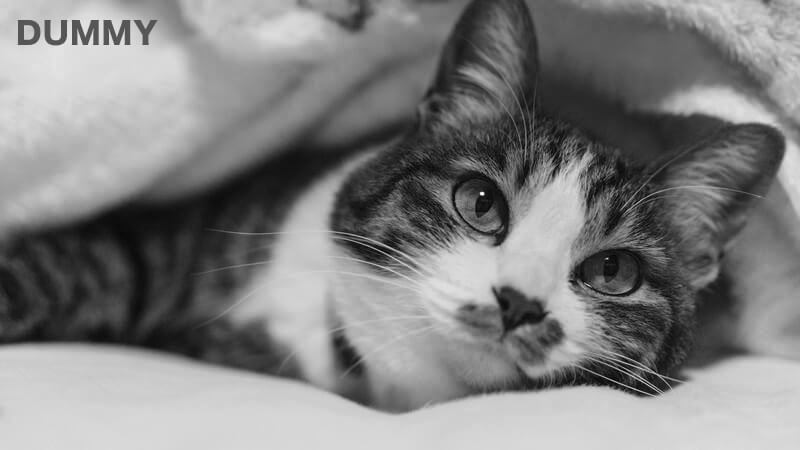
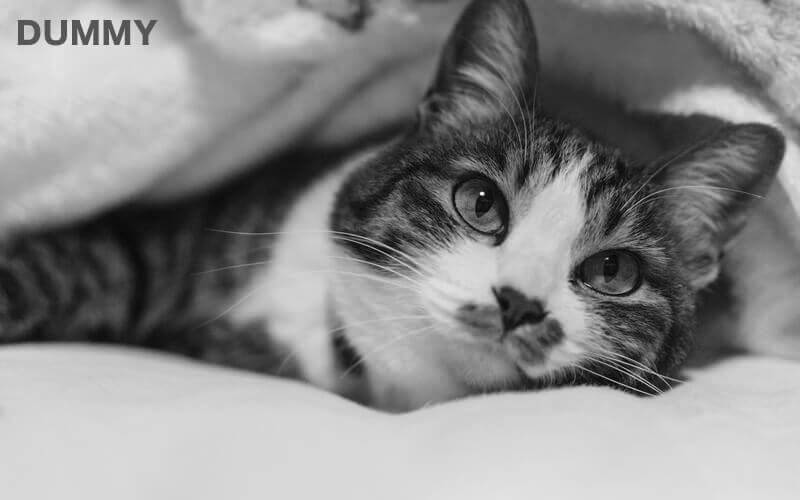
slider end

diff --git a/ui-slider/style.css b/ui-slider/style.css
@@ -1,9 +1,11 @@
 .Carousel {
   margin: 10px auto;
-  max-width: 1340px;
+  max-width: 800px;
 }
 
 .Carousel-container {
+  position: relative;
+  padding: 0 36px;
 }
 
 .Carousel-stage {
@@ -34,4 +36,122 @@
   display: block;
   width: 100%;
   height: auto;
+}
+
+/* コントローラー */
+.Carousel-button {
+  position: absolute;
+  top: 0;
+  width: 36px;
+  border-width: 0;
+  height: 100%;
+  overflow: hidden;
+  background-color: transparent;
+  background-image: none;
+  color: deepskyblue;
+  cursor: pointer;
+}
+
+.Carousel-button:disabled {
+  color: lavender;
+}
+.Carousel-button:not(:disabled):hover {
+  color: deeppink;
+}
+
+.Carousel-button::before {
+  content: "";
+  display: block;
+  width: 100%;
+  height: 100%;
+}
+
+.Carousel-button._prev {
+  left: 0;
+}
+.Carousel-button._prev::after {
+  position: absolute;
+  top: 0;
+  bottom: 0;
+  margin: auto;
+  width: 18px;
+  height: 18px;
+  content: "";
+  right: 0;
+  left: 8px;
+  box-shadow: inset 4px 4px 0 currentColor;
+  transform: rotate(-45deg);
+  transition: 0.3s;
+}
+
+.Carousel-button._next {
+  right: 0;
+}
+.Carousel-button._next::after {
+  position: absolute;
+  top: 0;
+  bottom: 0;
+  margin: auto;
+  width: 18px;
+  height: 18px;
+  content: "";
+  right: 8px;
+  left: 0;
+  box-shadow: inset -4px 4px 0 currentColor;
+  transform: rotate(45deg);
+  transition: 0.3s;
+}
+
+/* 下部エリア */
+.Carousel-footer {
+  margin-top: 10px;
+  padding: 0 36px;
+}
+
+/* 再生/一時停止ボタン */
+
+/* インジケータ */
+.Carousel-indicator {
+  display: flex;
+  justify-content: center;
+  margin: 0;
+  padding-left: 0;
+  list-style-type: none;
+}
+
+.Carousel-indicatorItem {
+  margin: 0 5px;
+  width: 16px;
+  height: 16px;
+}
+
+.Carousel-indicatorButton {
+  position: relative;
+  box-sizing: border-box;
+  border-width: 2px;
+  border-style: solid;
+  border-radius: 50%;
+  border-color: currentColor;
+  padding: 0;
+  width: 100%;
+  height: 100%;
+  overflow: hidden;
+  background-color: transparent;
+  background-image: none;
+  color: deepskyblue;
+  transition-property: background-color;
+  transition-duration: 0.2s;
+  transition-timing-function: linear;
+}
+
+.Carousel-indicatorButton:disabled {
+  background-color: deepskyblue;
+}
+
+.Carousel-indicatorButton::before {
+  display: block;
+  padding-top: 100%;
+  width: 100%;
+  height: 0;
+  content: "";
 }

diff --git a/ui-slider/main.js b/ui-slider/main.js
@@ -34,11 +34,32 @@ function createButton(classNames, text) {
   return button;
 }
 
+function createIndicator(count) {
+  const ol = document.createElement("ol");
+  const buttons = [];
+  for (let i = 0; i < count; i++) {
+    const li = document.createElement("li");
+    const button = createButton(["Carousel-indicatorButton"], i + 1);
+    li.classList.add("Carousel-indicatorItem");
+    li.appendChild(button);
+    ol.appendChild(li);
+    buttons.push(button);
+  }
+  ol.classList.add("Carousel-indicator");
+
+  return {
+    list: ol,
+    buttons: buttons
+  }
+}
+
+
 function appendNavigations() {
   const controllersFragment = document.createDocumentFragment();
   controllersFragment.appendChild(prevButton);
   controllersFragment.appendChild(nextButton);
   container.appendChild(controllersFragment);
+  footer.appendChild(indicator);
 }
 
 function onClickPrevButton(event) {
@@ -66,6 +87,13 @@ function updateControllerDisabledProp(button, key, disablingCondition) {
   controllersDisabledStatus[key] = disablingCondition;
 }
 
+function updateIndicatorDisabledProp(index) {
+  if (currentIndex > -1) {
+    indicatorButtons[currentIndex].disabled = false;
+  }
+  indicatorButtons[index].disabled = true;
+}
+
 function changeItem(index) {
   if (index === currentIndex) {
     return;
@@ -73,6 +101,7 @@ function changeItem(index) {
   slideAnim(index);
   updateControllerDisabledProp(prevButton, "prev", index === 0);
   updateControllerDisabledProp(nextButton, "next", index === lastIndex);
+  updateIndicatorDisabledProp(index);
   currentIndex = index;
 }
 
@@ -81,15 +110,22 @@ function slideAnim(index) {
   content.style.transform = "translateX(" + distance +"%)"
 }
 
+function onClickIndicatorButton(event) {
+  const target = event.target;
+  if (target.tagName.toLowerCase() !== "button") {
+    return;
+  }
+  const index = indicatorButtons.indexOf(target);
+  changeItem(index);
+}
+
 function init() {
   prevButton.addEventListener("click", onClickPrevButton, false);
   nextButton.addEventListener("click", onClickNextButton, false);
+  indicator.addEventListener("click", onClickIndicatorButton, false);
   appendNavigations();
   changeItem(0);
 }
 
 init();
 
-function createIndicator(count) {
-  const ol = document.createElement("ol");
-}
